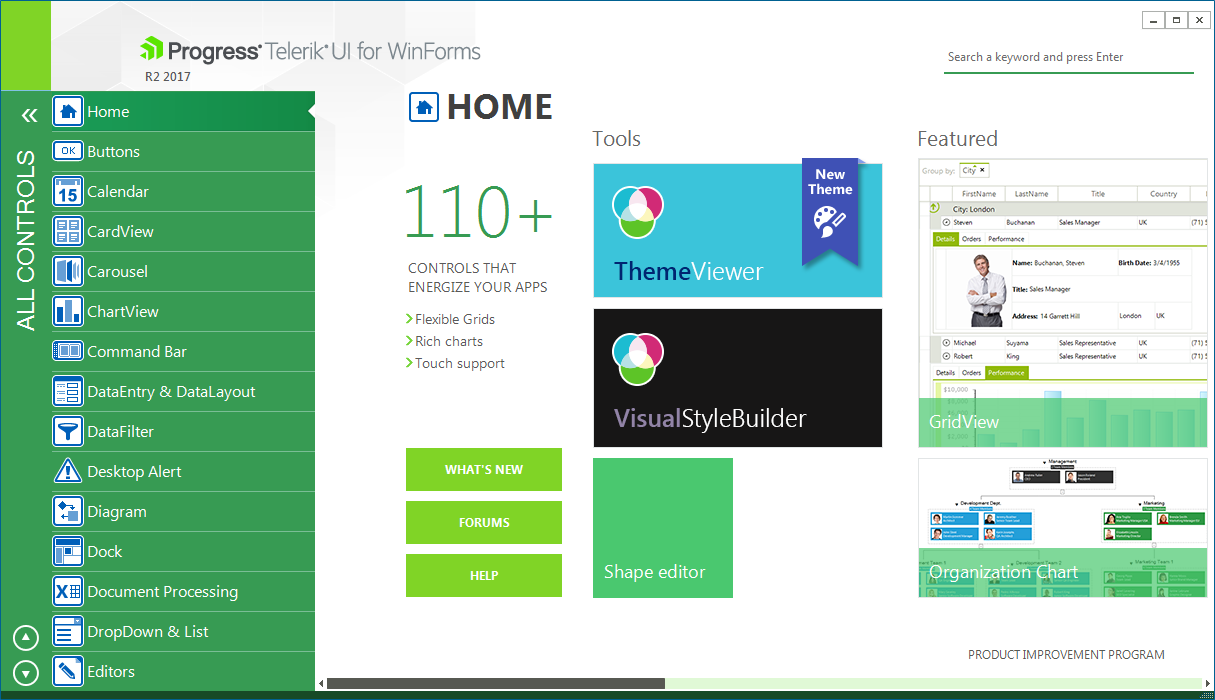
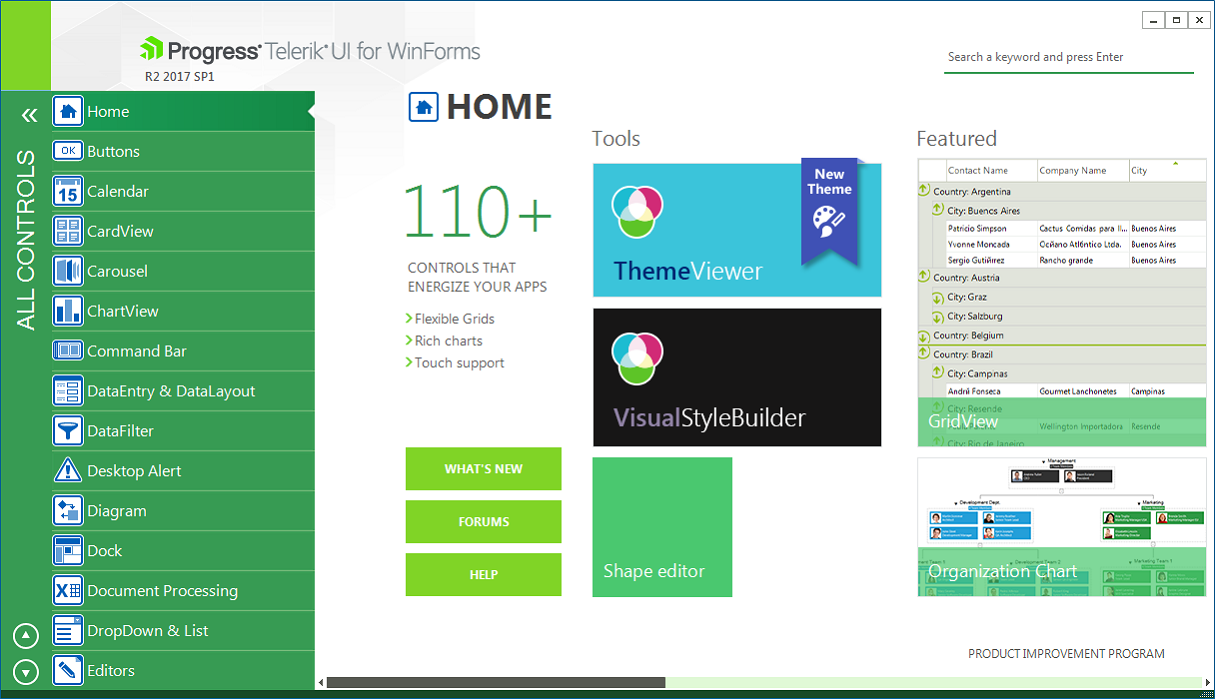
Changed overview image and LabelElement.TextAlignment info added

diff --git a/chartview/customization/formatting-series-labels.md b/chartview/customization/formatting-series-labels.md
@@ -77,6 +77,8 @@ End Sub
 
 {{endregion}}
 
+>note Since **R2 2017 SP1** you can control the label's text alignment by the newly introduced property ChartViewLabelFormattingEventArgs.LabelElement.**TextAlignment**.
+
 >important The code for getting the current data point can depend on the used series type. For example if you use pie chart you should cast to __PiePointElement__ , and __PieDataPoint__ types.
 >
 
